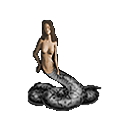
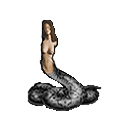
w2024.1027.1505

Changed region(s): [[0.25, 0.25, 0.3438, 0.5938], [0.4062, 0.3125, 0.5, 0.5938]]

diff --git a/ChangeLogs/en-American.ChangeLog.html b/ChangeLogs/en-American.ChangeLog.html
@@ -52,6 +52,10 @@ body {
   scrollbar-dark-shadow-color: #000000;
 }
 </style>
+<p class="Date">27 October 2024</p>
+<ul class="Bullet">
+<li>updated naga tiles to represent that nagas do not have arms (absurd and sonyvanda).</li>
+</ul>
 <p class="Date">21 October 2024</p>
 <ul class="Bullet">
 <li>dialogue editor now supports the &#39;{Character}&#39; variable to insert the player characters name into the dialogue text.</li>

diff --git a/ChangeLogs/en-British.ChangeLog.html b/ChangeLogs/en-British.ChangeLog.html
@@ -52,6 +52,10 @@ body {
   scrollbar-dark-shadow-color: #000000;
 }
 </style>
+<p class="Date">27 October 2024</p>
+<ul class="Bullet">
+<li>updated naga tiles to represent that nagas do not have arms (absurd and sonyvanda).</li>
+</ul>
 <p class="Date">21 October 2024</p>
 <ul class="Bullet">
 <li>dialogue editor now supports the &#39;{Character}&#39; variable to insert the player characters name into the dialogue text.</li>

diff --git a/ChangeLogs/ru.ChangeLog.html b/ChangeLogs/ru.ChangeLog.html
@@ -52,6 +52,10 @@ body {
   scrollbar-dark-shadow-color: #000000;
 }
 </style>
+<p class="Date">27 October 2024</p>
+<ul class="Bullet">
+<li>updated naga tiles to represent that nagas do not have arms (absurd and sonyvanda).</li>
+</ul>
 <p class="Date">21 October 2024</p>
 <ul class="Bullet">
 <li>dialogue editor now supports the &#39;{Character}&#39; variable to insert the player characters name into the dialogue text.</li>

diff --git a/ChangeLogs/zh-Simplified.ChangeLog.html b/ChangeLogs/zh-Simplified.ChangeLog.html
@@ -52,6 +52,10 @@ body {
   scrollbar-dark-shadow-color: #000000;
 }
 </style>
+<p class="Date">27 October 2024</p>
+<ul class="Bullet">
+<li>updated naga tiles to represent that nagas do not have arms (absurd and sonyvanda).</li>
+</ul>
 <p class="Date">21 October 2024</p>
 <ul class="Bullet">
 <li>dialogue editor now supports the &#39;{Character}&#39; variable to insert the player characters name into the dialogue text.</li>

diff --git a/ChangeLogs/zh-Traditional.ChangeLog.html b/ChangeLogs/zh-Traditional.ChangeLog.html
@@ -52,6 +52,10 @@ body {
   scrollbar-dark-shadow-color: #000000;
 }
 </style>
+<p class="Date">27 October 2024</p>
+<ul class="Bullet">
+<li>updated naga tiles to represent that nagas do not have arms (absurd and sonyvanda).</li>
+</ul>
 <p class="Date">21 October 2024</p>
 <ul class="Bullet">
 <li>dialogue editor now supports the &#39;{Character}&#39; variable to insert the player characters name into the dialogue text.</li>
